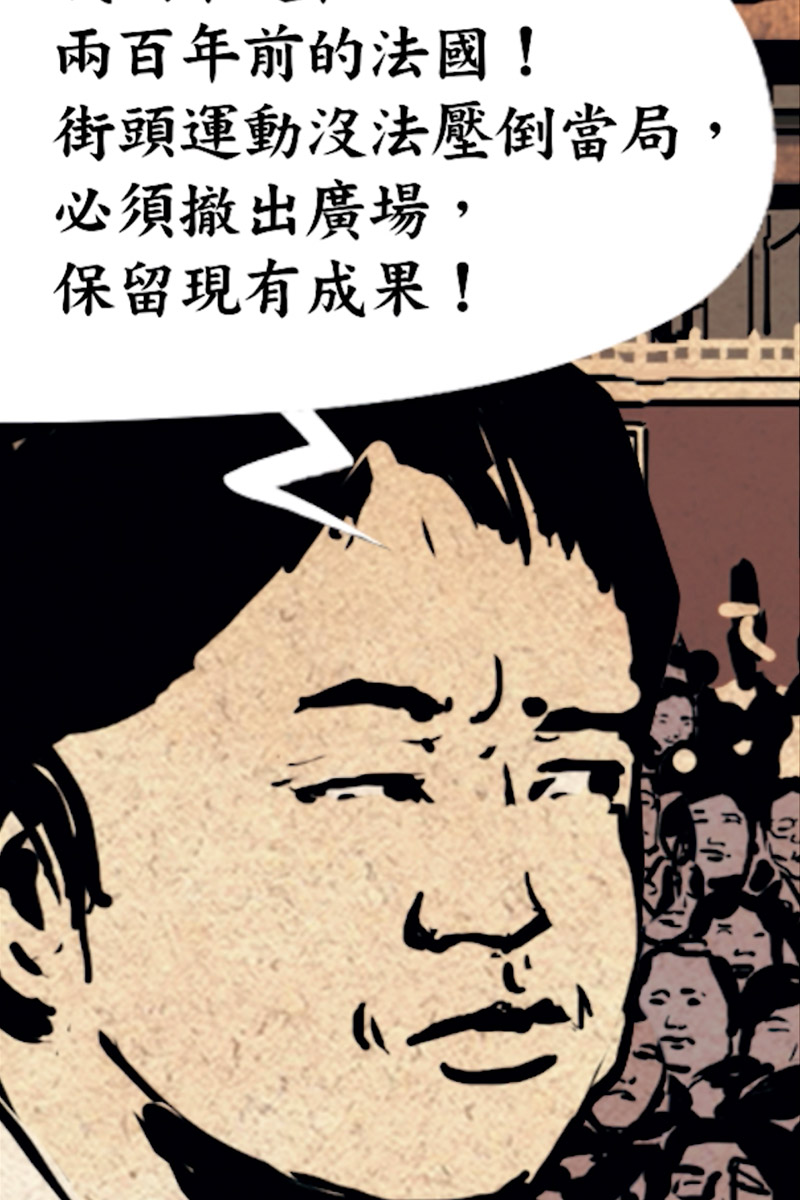
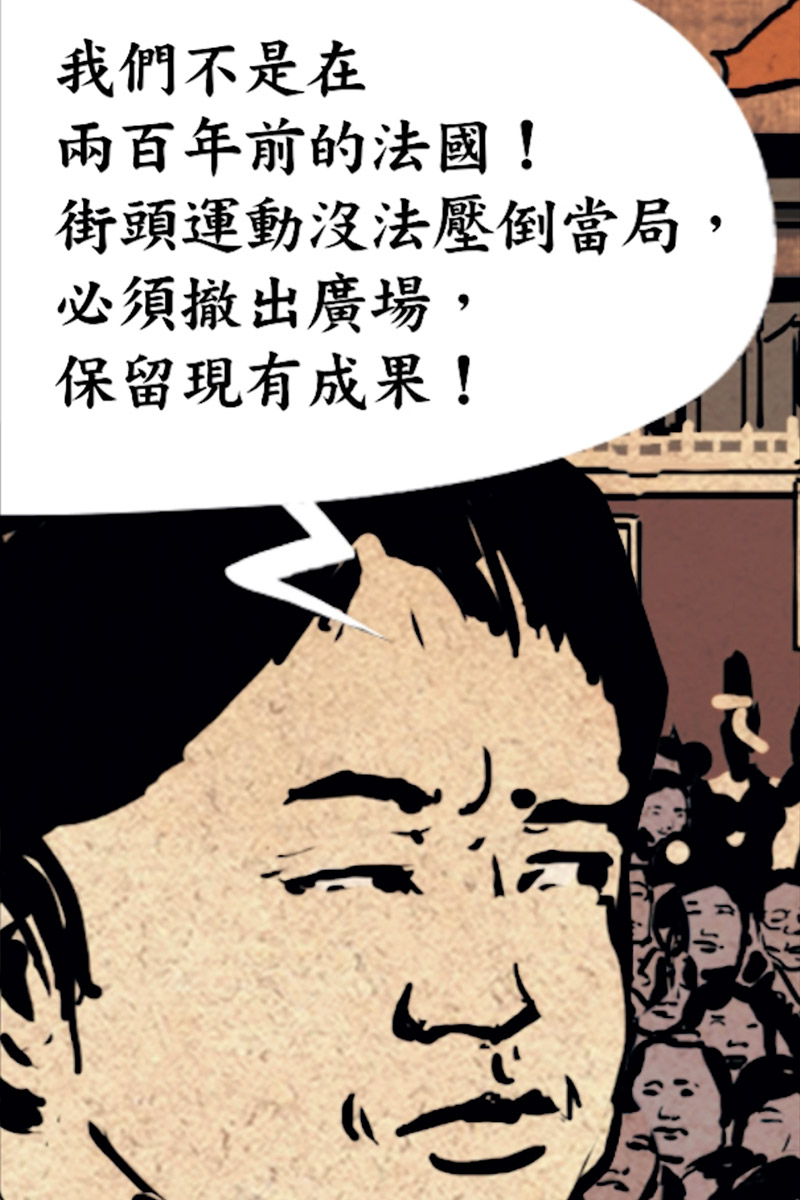
up

diff --git a/js/app.js b/js/app.js
@@ -1243,6 +1243,13 @@ const media_d = [[base_url+"images/1-bg1-d.jpg", base_url+"images/1-bg2-d.jpg", 
     var event = jQuery.Event( "detail-intro" );
     event.bubble = p.id;
     $( "body" ).trigger( event).removeClass('intro-state');
+    if($('body').data('lang') == 'sc'){
+      media[2][6] = base_url+"images/sc/3-bg7.jpg";
+      media[5][4] = base_url+"images/sc/6-bg5.jpg";
+      media[5][6] = base_url+"images/sc/6-bg7.jpg";
+      media[7][6] = base_url+"images/sc/8-bg7.jpg";
+      media[8][7] = base_url+"images/sc/9-bg8.jpg";
+    }
     if(mode == 'l'){
       pJS.fn.createBgs(media_d[p.id]);
     }

diff --git a/index.php b/index.php
@@ -2,7 +2,7 @@
 $lang_switch_url = 'https://theinitium.com/project/20190529-project-6430/sc.html';
 ?>
 <!DOCTYPE html>
-<html lang="en">
+<html lang="en" class="sc">
 <head>
   <meta charset="utf-8">
   <title>六四・三十年：走進他們的記憶隧道 ｜ 端傳媒</title>
